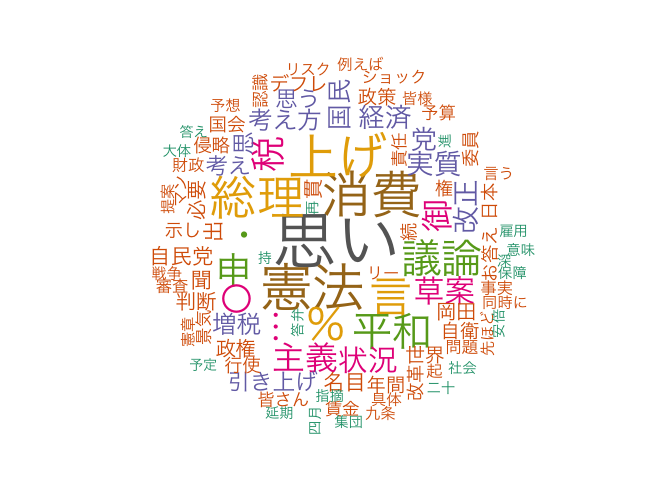
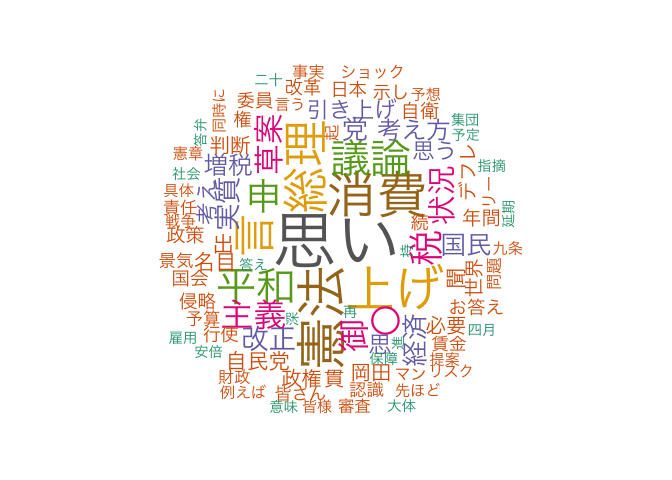
update README

Changed region(s): [[0.2188, 0.125, 0.8125, 0.9062]]

diff --git a/README.md b/README.md
@@ -5,7 +5,7 @@ This package is to access the API of Kokkai Kaigiroku, conference minutes of Jap
 
 ### Prerequisites
 
-Nothign. You may need to download dependent packages during the installation.
+Nothing. You may need to download dependent packages during the installation.
 
 ### Installation
 
@@ -221,99 +221,74 @@ summary(data_corpus_qtspeech)
 #>  国家基本政策委員会合同審査会   1号 2016-05-18          58 片山虎之助
 #> 
 #> Source:  /Users/akitaka/Dropbox/rProjects/kaigiroku/* on x86_64 by akitaka
-#> Created: Thu Apr 20 16:25:11 2017
+#> Created: Thu Apr 20 17:46:18 2017
 #> Notes:
 
 # kwicly look at some key terms
-kwic(data_corpus_qtspeech, "政府") # government 
-#>                                                   
-#>  [安倍晋三 3, 267] 、 なりわい の 再建 に | 政府 |
-#>  [岡田克也 6, 100]     、 一月 時点 で の | 政府 |
-#>  [岡田克也 6, 192]   、 つまり 半年 前 の | 政府 |
-#>                          
-#>  一丸 と な って 力      
-#>  見通し は、 実質 が     
-#>  の 見通し を かなり 下回
-kwic(data_corpus_qtspeech, "経済") # government 
-#>                                                           
-#>   [岡田克也 4, 216]         こと で、 必ずや その | 経済 |
-#>   [岡田克也 4, 236]            です ね。 そして、 | 経済 |
-#>   [岡田克也 4, 287]             っ た わけ です。 | 経済 |
-#>   [岡田克也 4, 412]      、 やはり この 一年半 の | 経済 |
-#>   [安倍晋三 5, 106]           ます から、 我々 の | 経済 |
-#>     [岡田克也 6, 9]            総理 の やら れ た | 経済 |
-#>   [岡田克也 6, 273]               、 私 は、 この | 経済 |
-#>   [安倍晋三 7, 112]          ます。 そこで、 世界 | 経済 |
-#>   [安倍晋三 7, 120]           で あり ます。 世界 | 経済 |
-#>   [安倍晋三 7, 226]         中 において、 中国 の | 経済 |
-#>   [安倍晋三 7, 377]        。 あした も 国際 金融 | 経済 |
-#>    [岡田克也 8, 10]             われ た、 中国 の | 経済 |
-#>    [安倍晋三 9, 11]           おり ます よう に、 | 経済 |
-#>   [安倍晋三 9, 252]        まして、 そして また、 | 経済 |
-#>  [岡田克也 10, 220]          って い ます よう な | 経済 |
-#>  [安倍晋三 13, 121] このように 思い ます。 いわば | 経済 |
-#>   [志位和夫 39, 36]       引き上げ て 以来、 日本 | 経済 |
-#>  [志位和夫 41, 148]             て、 この よう な | 経済 |
-#>                            
-#>  状況 を つくり出す こと が
-#>  判断 条項 も 削除 さ      
-#>  の 現状 は どうか。       
-#>  運営 が うまく いか なか  
-#>  政策 は 功 を 奏          
-#>  政策 を 全 否定 する      
-#>  運営、 あれだけ、 これから
-#>  の 状況 で あり ます      
-#>  の 状況 について 言 え    
-#>  の 減速 という リスク も  
-#>  分析 会合 を 開 い        
-#>  が どう なる か、         
-#>  という の は 生き物 でも  
-#>  の 状況 について の リスク
-#>  状況、 特に 消費 が       
-#>  を しっかり と 成長 さ    
-#>  の 六 割 を 占める        
-#>  情勢 の も と で
-kwic(data_corpus_qtspeech, "成長") # growth
-#>                                                        
-#>    [安倍晋三 5, 25]               一・ 七％ の | 成長 |
-#>    [安倍晋三 5, 88]               六・ 四％ の | 成長 |
-#>  [安倍晋三 13, 125] いわば 経済 を しっかり と | 成長 |
-#>                       
-#>  で ご ざ いま した   
-#>  で あり まして、 実質
-#>  さ せ てい かな け
+kwic(data_corpus_qtspeech, "政府", window = 4) # government 
+#>                                                                    
+#>  [安倍晋三 3, 267] なりわい の 再建 に | 政府 | 一丸 と な って    
+#>  [岡田克也 6, 100]     一月 時点 で の | 政府 | 見通し は、 実質   
+#>  [岡田克也 6, 192]   つまり 半年 前 の | 政府 | の 見通し を かなり
+kwic(data_corpus_qtspeech, "経済", window = 4) # ecnomy
+#>                                                                           
+#>   [岡田克也 4, 216]      で、 必ずや その | 経済 | 状況 を つくり出す こと
+#>   [岡田克也 4, 236]         ね。 そして、 | 経済 | 判断 条項 も 削除      
+#>   [岡田克也 4, 287]        た わけ です。 | 経済 | の 現状 は どうか      
+#>   [岡田克也 4, 412] やはり この 一年半 の | 経済 | 運営 が うまく いか    
+#>   [安倍晋三 5, 106]        から、 我々 の | 経済 | 政策 は 功 を          
+#>     [岡田克也 6, 9]         の やら れ た | 経済 | 政策 を 全 否定        
+#>   [岡田克也 6, 273]          私 は、 この | 経済 | 運営、 あれだけ、      
+#>   [安倍晋三 7, 112]      。 そこで、 世界 | 経済 | の 状況 で あり        
+#>   [安倍晋三 7, 120]      あり ます。 世界 | 経済 | の 状況 について 言    
+#>   [安倍晋三 7, 226]    において、 中国 の | 経済 | の 減速 という リスク  
+#>   [安倍晋三 7, 377]   あした も 国際 金融 | 経済 | 分析 会合 を 開        
+#>    [岡田克也 8, 10]          た、 中国 の | 経済 | が どう なる か        
+#>    [安倍晋三 9, 11]        ます よう に、 | 経済 | という の は 生き物    
+#>   [安倍晋三 9, 252]      、 そして また、 | 経済 | の 状況 について の    
+#>  [岡田克也 10, 220]       い ます よう な | 経済 | 状況、 特に 消費       
+#>  [安倍晋三 13, 121]    思い ます。 いわば | 経済 | を しっかり と 成長    
+#>   [志位和夫 39, 36]        て 以来、 日本 | 経済 | の 六 割 を            
+#>  [志位和夫 41, 148]       、 この よう な | 経済 | 情勢 の も と
+kwic(data_corpus_qtspeech, "成長", window = 4) # growth
+#>                                                                  
+#>    [安倍晋三 5, 25]          ・ 七％ の | 成長 | で ご ざ いま   
+#>    [安倍晋三 5, 88]          ・ 四％ の | 成長 | で あり まして、
+#>  [安倍晋三 13, 125] 経済 を しっかり と | 成長 | さ せ てい かな
 ```
 
 ``` r
+require(readtext)
+#> Loading required package: readtext
 # generate tokens and then dfm 
-data_dfm_qtspeech <- tokens(data_corpus_qtspeech) %>% dfm()
-print(data_dfm_qtspeech)
-#> Document-feature matrix of: 40 documents, 1,306 features (91.4% sparse).
+data_dfm_qtspeech <- tokens(data_corpus_qtspeech, remove_punct = TRUE) %>% dfm()
+#topfeatures(data_dfm_qtspeech, n = 100)
 
 # remove stopwords and punctuations (using slothlib list http://www.dl.kuis.kyoto-u.ac.jp/slothlib/)
 # Warning: the word list removes potentially important words
-jpstopwords <- readLines("http://svn.sourceforge.jp/svnroot/slothlib/CSharp/Version1/SlothLib/NLP/Filter/StopWord/word/Japanese.txt")
-jpstopwords <- c(jpstopwords, "。", "、", "")
-jpstopwords <- jpstopwords[jpstopwords != ""]
+jpstopwords <- readtext("http://svn.sourceforge.jp/svnroot/slothlib/CSharp/Version1/SlothLib/NLP/Filter/StopWord/word/Japanese.txt")
+jpstopwords <- tokens(jpstopwords[jpstopwords != ""]) %>% as.character
 # remove stopwords
 data_dfm_qtspeech <- dfm_remove(data_dfm_qtspeech, features = jpstopwords)
 
 topfeatures(data_dfm_qtspeech, n = 20) # still a lot of unnecessary features
-#>     の     は     を     が   ます     に     で     て     し     と 
-#>    385    355    266    217    208    207    201    151    127    124 
-#>     も という     い   ない   って     か     な   です   いる     た 
-#>    121    119    108    105     90     80     79     76     75     75
+#>       は       を     ます       て       し   という       い     ない 
+#>      355      266      208      151      127      119      108      105 
+#>     って     です     いる       た     あり     した       れ     てい 
+#>       90       76       75       75       67       65       62       62 
+#>     思い において     その       ご 
+#>       54       51       48       48
 
 # remove entries only with hiraganas (ひらがな)
 data_dfm_qtspeech <- dfm_remove(data_dfm_qtspeech, features = "^[あ-ん]+$",
                                  valuetype = "regex")
 print(data_dfm_qtspeech)
-#> Document-feature matrix of: 40 documents, 878 features (94.8% sparse).
+#> Document-feature matrix of: 40 documents, 872 features (94.8% sparse).
 topfeatures(data_dfm_qtspeech, n = 20) #looks better
-#> 思い 憲法 消費 上げ 総理   ％   言 議論 平和   ・   申   税    …   御   〇 
-#>   54   43   41   40   38   34   34   31   31   29   28   27   26   24   24 
-#> 主義 草案 状況 実質 改正 
-#>   24   22   21   19   19
+#> 思い 憲法 消費 上げ 総理   言 議論 平和   申   税   御   〇 主義 草案 状況 
+#>   54   43   41   40   38   34   31   31   28   27   24   24   24   22   21 
+#> 実質 改正   党 経済 国民 
+#>   19   19   18   18   17
 
 par(family = "HiraKakuProN-W3") # this line is necessary if you use a Mac
 textplot_wordcloud(data_dfm_qtspeech, min.freq = 6, random.order = FALSE,
@@ -330,7 +305,7 @@ We are going to esitmate an LDA topic model. First regenerate dfm at sentence le
 
 ``` r
 data_corpus_qtspeech_sent <- corpus_reshape(data_corpus_qtspeech, to = "sentences")
-data_dfm_qtspeech_sent <- data_corpus_qtspeech_sent %>% tokens %>% dfm
+data_dfm_qtspeech_sent <- data_corpus_qtspeech_sent %>% tokens(remove_punct = TRUE) %>% dfm
 data_dfm_qtspeech_sent <- dfm_remove(data_dfm_qtspeech_sent, features = jpstopwords)
 
 # remove entries only with hiraganas (ひらがな)
@@ -348,17 +323,17 @@ require(topicmodels)
 model_lda_qt_speeches <- LDA(convert(data_dfm_qtspeech_sent, to = "topicmodels"), 
                              k = 6)
 get_terms(model_lda_qt_speeches, 10)
-#>       Topic 1 Topic 2  Topic 3    Topic 4 Topic 5 Topic 6
-#>  [1,] "思い"  "上げ"   "言"       "憲法"  "…"     "消費" 
-#>  [2,] "岡田"  "思い"   "状況"     "平和"  "・"    "税"   
-#>  [3,] "御"    "申"     "デフレ"   "主義"  "議論"  "％"   
-#>  [4,] "党"    "御"     "引き上げ" "改正"  "実質"  "増税" 
-#>  [5,] "総理"  "思う"   "リー"     "草案"  "名目"  "〇"   
-#>  [6,] "議論"  "認識"   "マン"     "言"    "％"    "賃金" 
-#>  [7,] "国民"  "経済"   "ショック" "貫"    "政権"  "判断" 
-#>  [8,] "国会"  "党首"   "問題"     "総理"  "審査"  "景気" 
-#>  [9,] "改革"  "考え方" "・"       "自衛"  "〇"    "予想" 
-#> [10,] "社会"  "状況"   "起"       "行使"  "深"    "事実"
+#>       Topic 1    Topic 2  Topic 3    Topic 4 Topic 5 Topic 6 
+#>  [1,] "上げ"     "議論"   "消費"     "自衛"  "憲法"  "〇"    
+#>  [2,] "申"       "国会"   "総理"     "実質"  "平和"  "消費"  
+#>  [3,] "思い"     "審査"   "委員"     "権"    "主義"  "総理"  
+#>  [4,] "御"       "示し"   "税"       "賃金"  "改正"  "出"    
+#>  [5,] "状況"     "党"     "引き上げ" "言"    "草案"  "名目"  
+#>  [6,] "世界"     "深"     "予想"     "思い"  "貫"    "税"    
+#>  [7,] "認識"     "改革"   "お答え"   "増税"  "言"    "デフレ"
+#>  [8,] "リー"     "具体"   "言"       "財政"  "思う"  "政権"  
+#>  [9,] "マン"     "同時に" "社会"     "集団"  "侵略"  "実質"  
+#> [10,] "ショック" "合"     "保障"     "指摘"  "総理"  "年間"
 # topics(model_lda_qt_speeches, 3)
 ```
 
